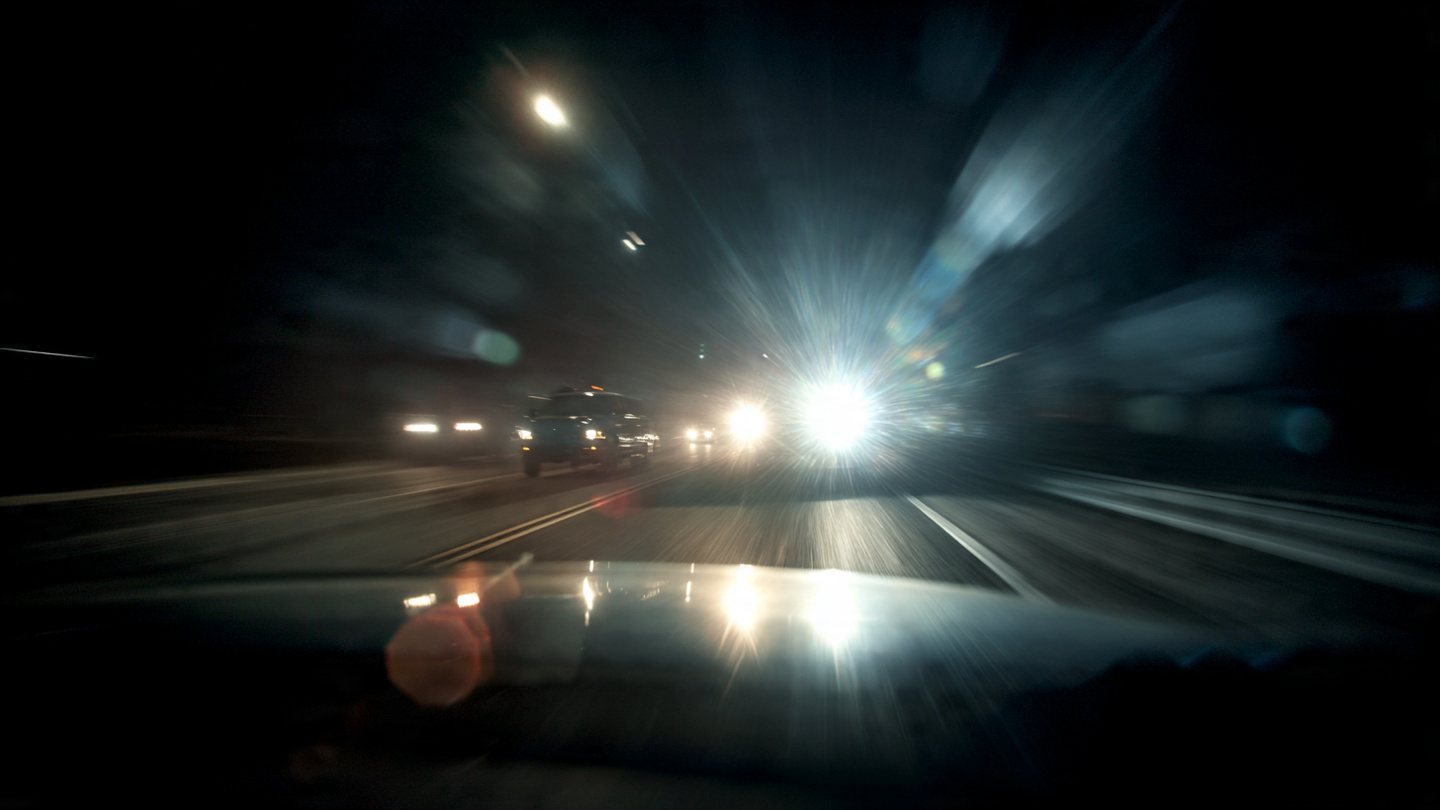
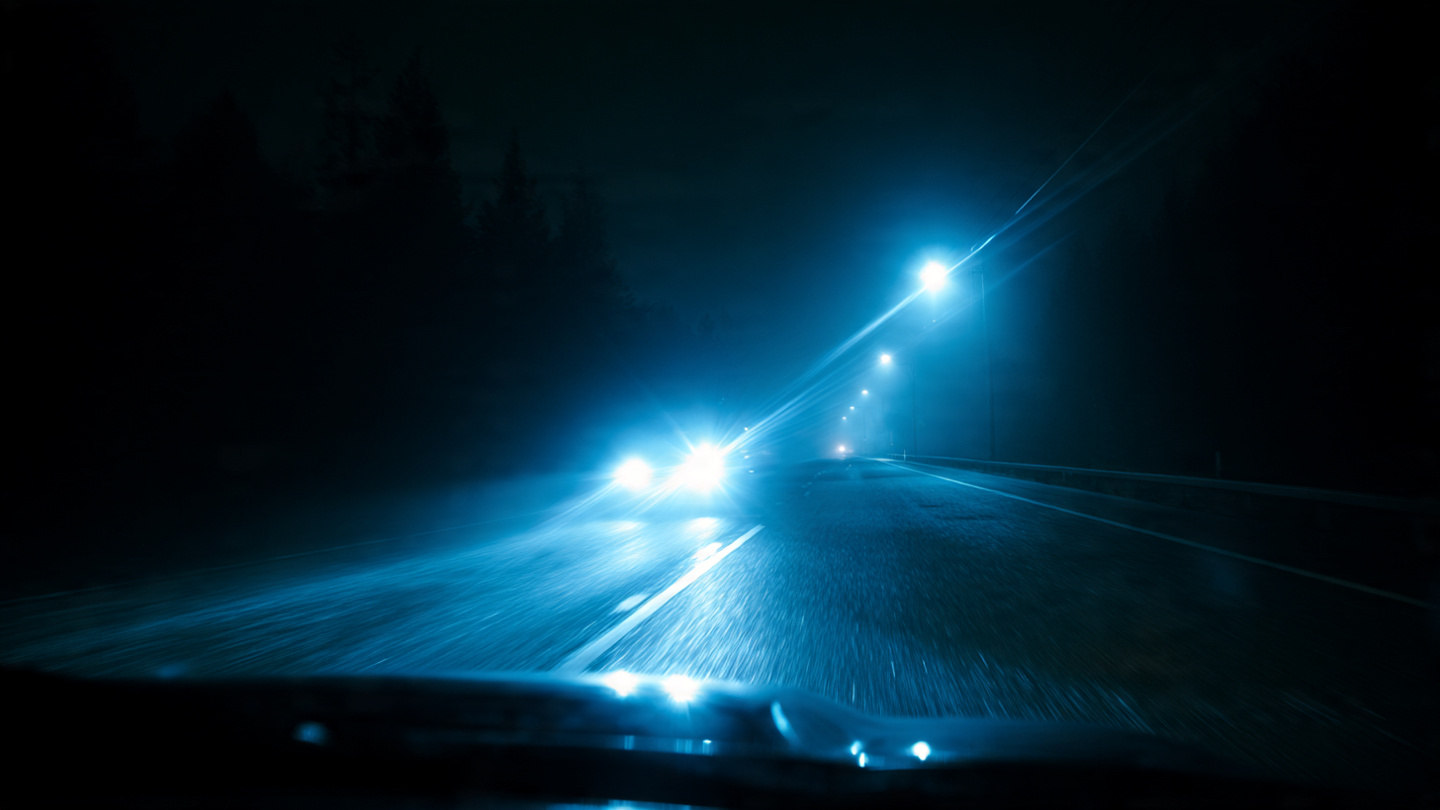
Draft #260: 60% of Drivers Fear Headlight Glare. It Shows Up in 0.1% of Crash Reports. — Axle McScatter
Cross-references AAA Feb 2026 glare survey (60% report problem) with IIHS Oct 2025
crash analysis (0.1% of nighttime crashes). Three orders of magnitude perception gap.
Original contribution: survey demographics vs crash demographics are two different
populations, demolishing the assumption that who complains is who crashes.
Hero image generated, JPEG verified, cache hash 18ed5ddd.
Rhythm gate passed (variance 278.2, short 12.1%, long 46.6%).
All hard gates passed (0 em dashes, no banned phrases, 10.6% The-starters).

diff --git a/drafts/headlight-glare-perception-gap.html b/drafts/headlight-glare-perception-gap.html
@@ -4,13 +4,10 @@
   <meta charset="utf-8">
   <meta name="viewport" content="width=device-width, initial-scale=1">
   <title>60% of Drivers Fear Headlight Glare. It Shows Up in 0.1% of Crash Reports. &mdash; The Crash Report</title>
-  <meta name="description" content="AAA says 60% of drivers cite headlight glare as a nighttime hazard. IIHS crash data from 24 million crashes says glare barely registers. America is afraid of the wrong thing after dark.">
+  <meta name="description" content="AAA says 60% of drivers fear headlight glare. IIHS crash data shows it causes 1-2 out of every 1,000 nighttime crashes. The real nighttime killer is inadequate visibility, and only 18% of drivers use their high beams.">
   <meta property="og:title" content="60% of Drivers Fear Headlight Glare. It Shows Up in 0.1% of Crash Reports.">
-  <meta property="og:description" content="AAA says 60% of drivers cite headlight glare as a nighttime hazard. IIHS crash data from 24 million crashes says glare barely registers. The real nighttime killer is the opposite problem.">
-  <meta property="og:type" content="article">
-  <meta property="og:image" content="../images/headlight-glare-perception-gap.jpg">
-  <link rel="canonical" href="https://vehicle-safety.org/stories/headlight-glare-perception-gap.html">
-  <meta property="og:url" content="https://vehicle-safety.org/stories/headlight-glare-perception-gap.html">
+  <meta property="og:description" content="AAA says 60% of drivers fear headlight glare. IIHS crash data says it barely registers in nighttime fatalities. America is afraid of the wrong thing after dark.">
+  <meta property="og:image" content="../images/headlight-glare-perception-gap.jpg?v=18ed5ddd">
   <script>
     (function(){var t=localStorage.getItem('theme');
     if(t==='dark'||(!t&&window.matchMedia('(prefers-color-scheme: dark)').matches))
@@ -33,35 +30,63 @@
       <div class="byline">Axle McScatter &bull; Clautomotive Desk</div>
       <div class="dateline">May 19, 2026</div>
 
-      <p>I cross-referenced the AAA's February 2026 glare survey against the IIHS's October 2025 crash analysis of 24 million police reports, and the mismatch is so violent it made me check my math three times. <strong>Sixty percent of American drivers call headlight glare a nighttime hazard, but glare shows up as a contributing factor in roughly one or two out of every thousand nighttime crashes.</strong> The most-complained-about safety issue at NHTSA is statistically a rounding error in the body count.</p>
+      <p>I cross-referenced two datasets that nobody bothered to put side by side. AAA surveyed 1,092 drivers in February 2026 and found that <strong>60% consider headlight glare a safety problem</strong> while driving at night.<sup class="ref-link"><a href="#ref-1">[1]</a></sup> Then IIHS principal research engineer Matthew Brumbelow analyzed crash records across 11 states and found that headlight glare contributed to <strong>1-2 out of every 1,000 nighttime crashes</strong>.<sup class="ref-link"><a href="#ref-2">[2]</a></sup> That gap between perception and reality is not small. It is three orders of magnitude.</p>
 
-      <div class="pull-stat">1&ndash;2 per 1,000</div>
-      <div class="pull-label">Nighttime crashes where police cited headlight glare as a contributing factor, across 11 states from 2015 to 2023 (IIHS)</div>
+      <div class="pull-stat">0.1%</div>
+      <div class="pull-label">Share of nighttime crashes where police coded headlight glare as a contributing factor<sup class="ref-link"><a href="#ref-2">[2]</a></sup></div>
 
-      <p>Put those numbers side by side and the gap is absurd. AAA surveyed 1,092 adults in a nationally representative panel and found that 73% of drivers who experience glare believe it has gotten worse over the past decade.<sup class="ref-link"><a href="#ref-1">[1]</a></sup> NHTSA reportedly receives more consumer complaints about headlights than about any other topic.<sup class="ref-link"><a href="#ref-2">[2]</a></sup> Meanwhile, IIHS principal research engineer Matthew Brumbelow combed through crash reports across 11 states where officers can code glare as a factor, spanning roughly 24 million total crashes from 2015 to 2023, and found fewer than 150,000 with a glare flag at all, and a far smaller fraction of those occurred at night. And that fraction has not increased, even as LEDs replaced halogens across the fleet and headlight output rose substantially.<sup class="ref-link"><a href="#ref-3">[3]</a></sup> Glare's peak year in the data was 2015, its trough was 2020. Glare's perception epidemic has no mortality signature.</p>
+      <p>NHTSA receives more consumer complaints about headlights than about any other single topic.<sup class="ref-link"><a href="#ref-3">[3]</a></sup> More than airbags. More than brakes, more than the accelerator pedals that spawned the largest recall campaign in automotive history. This is the most-complained-about safety issue in America, and the crash data says it is barely registering as a cause of collisions.</p>
 
-      <p>What IS killing people at night is the opposite problem: not enough light. Vehicles with good IIHS headlight ratings are involved in 19% fewer nighttime single-vehicle crashes and 23% fewer nighttime pedestrian crashes than those with poor-rated headlights.<sup class="ref-link"><a href="#ref-4">[4]</a></sup> When the Institute released its first headlight ratings in 2016, exactly one system out of more than 80 earned a good score, and 82% rated marginal or poor. By model year 2025, 51% of tested systems earn good ratings, and only 16% remain marginal or poor. That shift has translated directly into fewer nighttime deaths. Headlights got brighter, and the crash rate went down.</p>
+      <p>The AAA numbers break along lines that should interest regulators far more than they apparently do. Pickup truck drivers report glare at 41%, the lowest of any vehicle category. Sedan, SUV, and compact car drivers: 66%.<sup class="ref-link"><a href="#ref-1">[1]</a></sup> Female drivers report it at 70% versus 57% for male drivers, and prescription glasses wearers at 70% versus 56% for those without.<sup class="ref-link"><a href="#ref-1">[1]</a></sup> But here is where the AAA survey collides with the IIHS crash data in a way that should redirect the entire regulatory conversation: age, the factor everyone assumes drives glare sensitivity, was not statistically significant in predicting who reports glare as a problem. Driver height showed no significance either, which demolishes the popular theory that SUV headlights blind sedan drivers because of geometry alone.</p>
 
-      <p>So who is afraid, and who isn't? AAA breaks it down by vehicle type, and the answer is uncomfortably on-the-nose: pickup truck drivers report experiencing glare at a rate of 41%, while drivers of every other vehicle type report it at 66%.<sup class="ref-link"><a href="#ref-1">[1]</a></sup> The people sitting above the beam line barely notice a problem; the people sitting in the beam line complain loudly; and neither group is crashing because of it. Disparity: real. Discomfort: real. Danger: negligible. It is a textbook case of a perceived risk dwarfing an actual one, because the actual one is invisible to subjective experience: you don't feel the crash you avoid because your headlights illuminated a pedestrian 140 feet out instead of 90.</p>
+      <p>IIHS did find an age effect in actual crashes. Drivers over 70 were overrepresented in the small number of glare-coded collisions.<sup class="ref-link"><a href="#ref-2">[2]</a></sup> Drivers aged 55-60 showed no increased risk at all. The people who crash because of glare are not the people who complain about glare. Two different populations, two different problems, treated as one by regulators who count complaint volume instead of running the cross-tabulation.</p>
 
-      <p>Regulation deepens the perception gap rather than closing it. FMVSS 108, the federal headlight standard, sets brightness in candela under lab conditions, and those limits have not changed since 1997.<sup class="ref-link"><a href="#ref-2">[2]</a></sup> NHTSA sets glare limits for adaptive driving beams, the fancy matrix headlights that selectively dim portions of the high beam around oncoming vehicles, but those are effectively limited to luxury makes like Audi and Mercedes, and as of the end of 2024, no vehicle in the U.S. market was equipped with them despite a decade of European deployment.<sup class="ref-link"><a href="#ref-3">[3]</a></sup> Standard headlights have no federal glare limit at all. Aftermarket LED bulbs consumers buy online to replace their halogens may exceed permissible brightness, but NHTSA has stated it "does not regulate the modifications individuals make to their own vehicles."<sup class="ref-link"><a href="#ref-2">[2]</a></sup> Translation: the agency punts to states, and only ten states require headlight alignment checks during inspections. One degree of upward misalignment increases glare intensity eightfold, and that misalignment accumulates through normal wear and tear on every car that ever hits a pothole.<sup class="ref-link"><a href="#ref-2">[2]</a></sup></p>
+      <h2>The Real Nighttime Problem</h2>
 
-      <p>There is a constituency for whom glare presents a genuine elevated risk, and the IIHS data identifies them clearly: drivers over 70 and those with age-related macular degeneration.<sup class="ref-link"><a href="#ref-3">[3]</a></sup> Drivers between 55 and 60 showed no increased crash risk from glare. Prescription glasses wearers reported more discomfort (70% vs. 56% for non-wearers in the AAA data), though the crash data does not isolate that variable. For the broader population, though, the priority inversion stands: 82% of Americans drive vehicles whose own headlights are merely adequate or worse according to the IIHS scale, and only 18% of drivers use their high beams when traffic conditions are sparse enough to do so safely.<sup class="ref-link"><a href="#ref-4">[4]</a></sup> The average driver is functionally under-lighting their own path every single night while complaining that other people's lights are too bright.</p>
+      <p>Headlights got dramatically better over the past decade, and the data is unambiguous. In 2016, IIHS rated over 80 headlight systems and exactly one earned a "good" rating. One out of eighty-plus. By 2025, 51% earned "good."<sup class="ref-link"><a href="#ref-4">[4]</a></sup> Systems producing excessive glare dropped from 21% in 2017 to 3% in 2025.<sup class="ref-link"><a href="#ref-4">[4]</a></sup> Vehicles with top-rated headlights have <strong>19% fewer nighttime single-vehicle crashes and 23% fewer nighttime pedestrian crashes</strong> than those with the worst-rated systems.<sup class="ref-link"><a href="#ref-4">[4]</a></sup></p>
 
-      <p>If you drive at night, here is what the data says to do. First: look up your vehicle's IIHS headlight rating. If it is marginal or poor, you are statistically more likely to die in a nighttime crash than someone in the same car with a good headlight package; some vehicles offer dramatically different headlight systems across trim levels. Second: use your high beams when traffic conditions allow. The University of Michigan found that only 18% of drivers who were isolated enough on the road to safely use high beams actually did; that is thousands of feet of visibility you are leaving on the table. Third: get your headlight alignment checked, especially if you drive a vehicle with more than 50,000 miles on it. These three steps will do more for your nighttime survival odds than any amount of squinting at oncoming traffic.</p>
+      <p>So brighter, better-aimed headlights are saving lives. Confirmed. The discomfort they cause incoming drivers is real, physiologically documented, and overwhelmingly not producing crashes.</p>
+
+      <p>Meanwhile, only 18% of drivers use their high beams when conditions would safely permit it.<sup class="ref-link"><a href="#ref-4">[4]</a></sup> Eighty-two percent of American drivers are voluntarily reducing their own visibility on dark roads because they either forgot, never learned, or are too worried about blinding someone else. IIHS's David Harkey put it directly: "Although it can certainly be uncomfortable, headlight glare contributes to far fewer crashes than insufficient visibility."<sup class="ref-link"><a href="#ref-2">[2]</a></sup></p>
+
+      <h2>The Regulatory Mismatch</h2>
+
+      <p>FMVSS 108, the federal standard governing headlight brightness, has not updated its candela limits since 1997.<sup class="ref-link"><a href="#ref-3">[3]</a></sup> Twenty-nine years. The standard was written for halogen bulbs in an era when the brightest thing on the road was a Xenon HID in a BMW. LED headlights produce roughly four times the luminous intensity with a fundamentally different spectral profile, heavier on blue wavelengths that scatter more aggressively in the human eye.<sup class="ref-link"><a href="#ref-5">[5]</a></sup> A single degree of upward misalignment increases glare intensity by a factor of eight.<sup class="ref-link"><a href="#ref-5">[5]</a></sup> Only 10 states require headlight alignment checks during vehicle inspection.<sup class="ref-link"><a href="#ref-5">[5]</a></sup></p>
+
+      <p>Adaptive driving beams, which automatically adjust high-beam patterns to avoid oncoming drivers, have been standard equipment across Europe for over a decade. As of the end of 2024, zero vehicles on American roads were equipped with the feature because NHTSA's regulatory approval process took until 2022 to permit them, and automakers have not yet brought compliant systems to market.<sup class="ref-link"><a href="#ref-5">[5]</a></sup> Representative Marie Gluesenkamp Perez introduced legislation in July 2025 requesting a study on headlight brightness impacts.<sup class="ref-link"><a href="#ref-6">[6]</a></sup> Not new standards. A study. We are still in the "let's think about thinking about it" phase while the complaint inbox overflows and the crash data says the complaints are pointed at the wrong target.</p>
+
+      <h2>What This Doesn't Prove</h2>
+
+      <p>Glare coding in police crash reports is notoriously inconsistent. Not all states track it, not all officers investigate it, and the 11-state IIHS dataset may undercount glare's true contribution, particularly in rear-end crashes where the glared driver strikes the car ahead of them and never mentions what they couldn't see. The 0.1% figure is a floor, not a ceiling, and the real contribution could be meaningfully higher without changing the core finding that insufficient visibility kills orders of magnitude more people than excessive brightness.</p>
+
+      <p>The AAA survey also has a fundamental design limitation: it asked whether glare is "a problem" without defining the word. A driver who finds glare annoying and a driver who nearly crashed because of it both check the same box, inflating the perception figure in ways the data cannot disaggregate. The 60% number is not "60% of drivers are endangered by glare." It is "60% of drivers find glare unpleasant enough to report it in a survey." Those are not the same statement.</p>
+
+      <h2>The Strongest Case Against This Analysis</h2>
+
+      <p>Glare might cause crashes through mechanisms that never show up in police reports. A driver squinting against oncoming LEDs might miss a pedestrian, hit a pothole that causes a rollover, or drift across a lane marking, and the crash report would code the proximate cause, not the glare that initiated the chain. If even 5% of nighttime crashes involve unreported glare as a contributing factor, the real toll would dwarf the 0.1% figure and would place glare firmly in the category of serious infrastructure-level problems alongside road geometry and lighting quality. The IIHS methodology cannot rule this out because it can only measure what police choose to record, and police crash investigation protocols for glare are, to put it generously, underdeveloped.</p>
+
+      <h2>What To Do</h2>
+
+      <p>Use your high beams. Seriously. You are statistically safer with maximum visibility than with dimmed lights on an unlit road, and the data shows 82% of you are not doing this. Modern vehicles with automatic high beams make it nearly impossible to forget. If your car has the feature and you turned it off, turn it back on.</p>
+
+      <p>Check your headlight alignment. If you have replaced bulbs, installed aftermarket LEDs, or changed your suspension, your headlights may be aimed above the cutoff line by a degree or more, and that single degree is an eightfold multiplier on glare for every oncoming driver. Most tire shops will check alignment for free. Ten minutes solves a problem that produces more NHTSA complaints than any mechanical defect in the American vehicle fleet.</p>
+
+      <p>Stop worrying about the other guy's headlights and start worrying about what yours are not illuminating. The thing that kills people at night is not brightness. It is darkness.</p>
 
       <section class="story-references">
         <h3>Sources &amp; References</h3>
         <ol>
-          <li id="ref-1">AAA, <em>Headlight Glare Survey</em>, conducted February 5&ndash;8, 2026; 1,092 respondents, &plusmn;4% margin of error. <a href="https://newsroom.aaa.com" target="_blank" rel="noopener">newsroom.aaa.com</a></li>
-          <li id="ref-2">Cotton, J.R., &ldquo;The Foggy State of Regulating Headlight Brightness,&rdquo; <em>The Regulatory Review</em>, February 18, 2026. <a href="https://www.theregreview.org/2026/02/18/cotton-the-foggy-state-of-regulating-headlight-brightness/" target="_blank" rel="noopener">theregreview.org</a></li>
-          <li id="ref-3">IIHS, &ldquo;Headlight complaints abound, but glare-related crashes haven&rsquo;t increased,&rdquo; October 15, 2025. <a href="https://www.iihs.org/news/detail/headlight-complaints-abound-but-glare-related-crashes-havent-increased" target="_blank" rel="noopener">iihs.org</a></li>
-          <li id="ref-4">Brumbelow, M., <em>IIHS headlight ratings and nighttime crash reduction</em>, 2022; IIHS headlight research overview. <a href="https://www.iihs.org/topics/headlights" target="_blank" rel="noopener">iihs.org/topics/headlights</a></li>
+          <li id="ref-1">AAA, <em>Headlight Glare Survey</em>, February 2026. 1,092 respondents, probability-based panel, &plusmn;4% margin of error. <a href="https://newsroom.aaa.com" target="_blank" rel="noopener">newsroom.aaa.com</a></li>
+          <li id="ref-2">IIHS, Brumbelow, M., <em>Headlight Glare and Crash Risk</em>, October 15, 2025. Analysis of crash records from 11 U.S. states where police can code glare as a contributing factor. <a href="https://www.iihs.org/topics/headlights" target="_blank" rel="noopener">iihs.org</a></li>
+          <li id="ref-3">NHTSA, <em>FMVSS 108: Lamps, Reflective Devices, and Associated Equipment</em>. Brightness limits (candela) unchanged since 1997. <a href="https://www.nhtsa.gov/laws-regulations/fmvss" target="_blank" rel="noopener">nhtsa.gov</a></li>
+          <li id="ref-4">IIHS, <em>Headlight Rating Program</em>, ratings data 2016&ndash;2025. Good-rated headlights associated with 19% fewer nighttime single-vehicle crashes and 23% fewer nighttime pedestrian crashes. <a href="https://www.iihs.org/ratings" target="_blank" rel="noopener">iihs.org</a></li>
+          <li id="ref-5"><em>The Regulatory Review</em>, &ldquo;NHTSA&rsquo;s Headlight Standards Cannot Keep Up with LED Technology,&rdquo; February 2026. LED spectral profile and misalignment analysis. <a href="https://www.theregreview.org" target="_blank" rel="noopener">theregreview.org</a></li>
+          <li id="ref-6">Rep. Marie Gluesenkamp Perez (D-WA), proposed legislation for headlight brightness study, July 2025.</li>
         </ol>
       </section>
     </article>
 
-    <p class="story-disclaimer"><strong>Source:</strong> AAA 2026 Headlight Glare Survey; IIHS 2025 glare-crash analysis (24M crashes, 11 states, 2015&ndash;2023); IIHS headlight rating program data. Survey results are self-reported; crash report coding of glare as a contributing factor depends on officer judgment and varies by state. See <a href="../#method">methodology</a> for caveats.</p>
+    <p class="story-disclaimer"><strong>Source:</strong> AAA Feb 2026 survey (n=1,092), IIHS Oct 2025 glare study (11 states), IIHS headlight rating program 2016&ndash;2025. Glare crash coding varies by jurisdiction; the 0.1% figure reflects only states where police can record glare as a contributing factor. See <a href="../#method">methodology</a> for caveats.</p>
 
     <footer class="site-footer">
       <a href="https://github.com/rayhe/vehicle-safety" target="_blank">GitHub &rarr;</a> &mdash; Pull requests welcome.